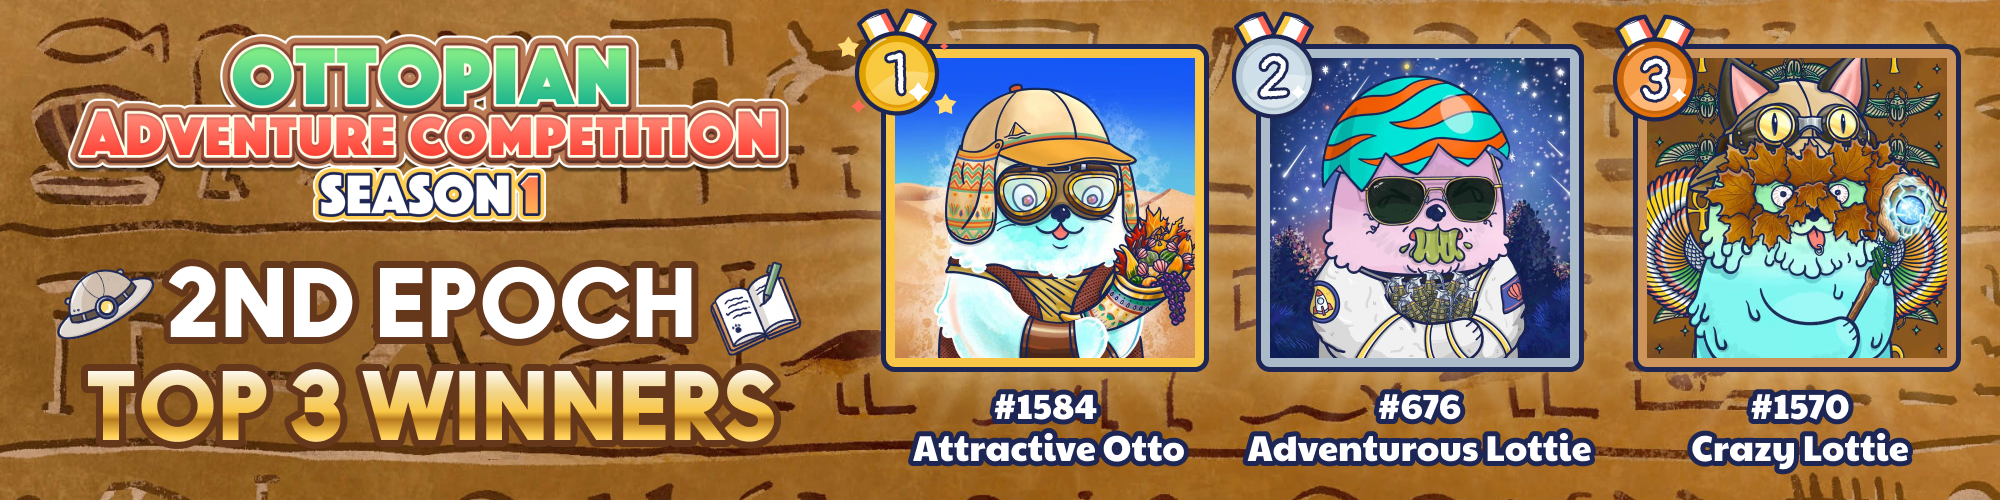
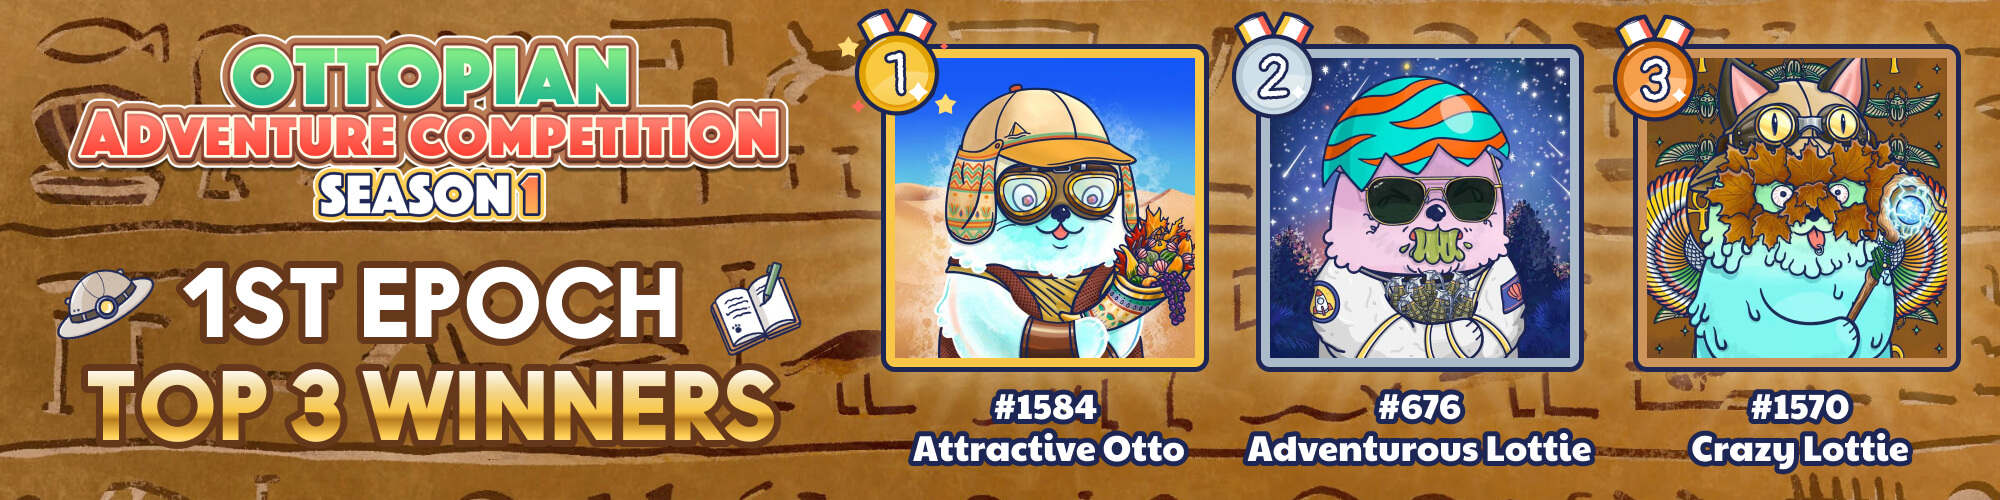
update epoch

Changed region(s): [[0.062, 0.51, 0.372, 0.69]]

diff --git a/docs/ottopia/events/rarity-competition-s3.md b/docs/ottopia/events/rarity-competition-s3.md
@@ -22,12 +22,21 @@ If you missed out, don’t worry. Season 3 of the Rarity Competition is here, an
 Shortcuts to each Rarity Competition epoch:
 
 * 4th Epoch (Coming soon)
-* 3rd Epoch (Coming soon)
+* [3rd Epoch - Year of the Rabbit](#3rd-epoch)
 * [2nd Epoch - White Ottermas](#2nd-epoch)
 * [1st Epoch - Pharaoh's Secret](#1st-epoch)
 
+## 3rd Epoch - Year of the Rabbit <a href="#3rd-epoch" id="3rd-epoch"></a>
 
-## 2nd Epoch - White Ottermas <a href="#2nd-epoch" id="2nd-epoch"></a>
+![S3 3rd Epoch](img/s3_epoch3.jpg)
+
+* Event Duration: Jan 9, 2023 0:00 ~ Jan 30, 2023 0:00 (UTC)
+
+Here comes a bigger Lunar New Year celebration following right behind the 2023 New Year feast! During these 3 weeks, you can earn extra rarity score values as well as rarity multipliers by styling your Otto NFTs following the theme requirements set **Red** , **Lunar New Year** & **Rabbit** for this epoch.
+
+This holiday season, may you successfully scare away bad luck and be blessed with good luck. Happy Lunar New Year of the Rabbit!
+
+## 2nd Epoch - White Ottermas (Ended) <a href="#2nd-epoch" id="2nd-epoch"></a>
 
 ![S3 2nd Epoch](img/s3_epoch2.jpg)
 
@@ -36,7 +45,7 @@ Shortcuts to each Rarity Competition epoch:
 A Christmas and 2023 New Year feast warm-up has just commenced! During these 3 weeks, you can earn extra rarity score values as well as rarity multipliers by styling your Otto NFTs following the theme requirements set **White** , **Winter** & **Christmas** for this epoch!
 
 
-## 1st Epoch - Pharaoh's Secret <a href="#1st-epoch" id="1st-epoch"></a>
+## 1st Epoch - Pharaoh's Secret (Ended) <a href="#1st-epoch" id="1st-epoch"></a>
 
 ![S3 1st Epoch](img/s3_epoch1.jpg)
 

diff --git a/docs/ottopia/events/adventure-competition-s1.md b/docs/ottopia/events/adventure-competition-s1.md
@@ -14,15 +14,27 @@ Another farming game is coming! After Raking for Rarity, Ottopia has once again 
 
 The more adventures your Otto NFT completes, the higher its ranking will be on the leaderboard. The higher your Otto NFT’s rank is, the more rewards you'll receive – so assess your risk tolerance and embark on your adventure!
 
+## 3rd Epoch <a href="#3rd-epoch" id="3rd-epoch"></a>
+
+![S1 3rd Epoch](img/ap_s1_epoch3.jpg)
+
+* Event Duration: Jan 9, 2023 0:00 ~ Jan 30, 2023 0:00 (UTC)
+
+The 3rd epoch is live now. Get ready to the adventure and collect AP and find treasure rewards!
+
+Click [here](https://ottopia.app/leaderboard?adventure=1&epoch=13) to view the final AP ranking of all Otto NFTs for this epoch.
+
 ## 2nd Epoch <a href="#2nd-epoch" id="2nd-epoch"></a>
 
 ![S1 2nd Epoch](img/ap_s1_epoch2.jpg)
 
 * Event Duration: Dec 19, 2022 0:00 ~ Jan 9, 2023 0:00 (UTC)
 
-The 2nd epoch is live now! Get ready to the adventure and collect AP and find treasure rewards!
+The epoch has ended and the top 3 winners are as follows:
 
-Click [here](https://ottopia.app/leaderboard?adventure=1) to view the final AP ranking of all Otto NFTs for this epoch.
+![S1 2nd Epoch Winners](img/ap_s1_winner2.jpg)
+
+Click [here](https://ottopia.app/leaderboard?adventure=1&epoch=12) to view the final AP ranking of all Otto NFTs for this epoch.
 
 ## 1st Epoch <a href="#1st-epoch" id="1st-epoch"></a>
 

diff --git a/docs/ottopia/gameplay/store.md b/docs/ottopia/gameplay/store.md
@@ -30,7 +30,7 @@ Here is the formula used to show the probability of finding different rarity equ
 ## Special Chest <a href="#shell-chest" id="special-chest"></a>
 Ottopia occasionally has themed chest sales with gorgeous exclusive items.
 
-### White Ottermas Chest
+### White Ottermas Chest (Ended)
 
 ![White Ottermas Chest Sale](img/white_ottermas_chest.jpg)
 

diff --git a/docs/ottopia/gameplay/foundry.md b/docs/ottopia/gameplay/foundry.md
@@ -26,7 +26,7 @@ The $FISH token can only be used within the Ottopia website. This token will be 
 
 ## Seasonal recipe  <a href="#seasonal-recipe" id="seasonal-recipe"></a>
 
-### White Ottermas
+### White Ottermas (Ended)
 
 ![White Ottermas](img/ottermas_forge.jpg)
 
